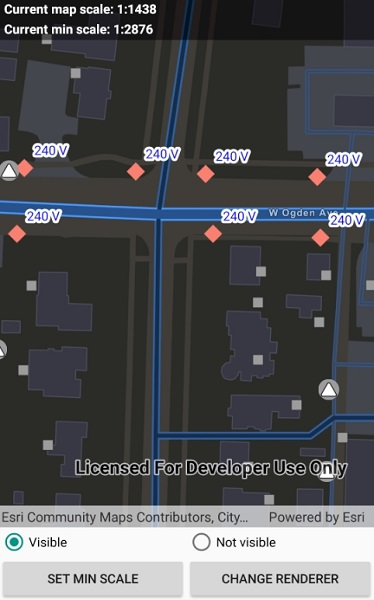
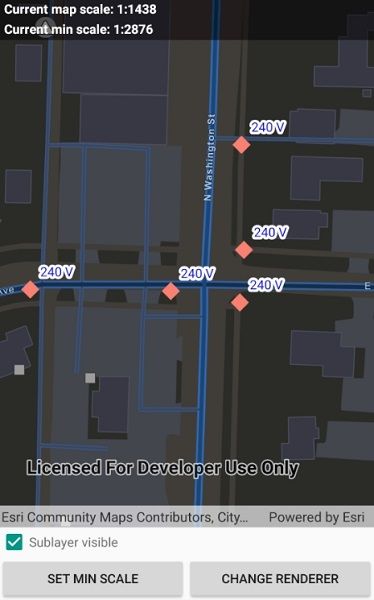
Switched android to use a checkbox for visibility

diff --git a/src/Android/Xamarin.Android/Samples/Layers/DisplaySubtypeFeatureLayer/DisplaySubtypeFeatureLayer.cs b/src/Android/Xamarin.Android/Samples/Layers/DisplaySubtypeFeatureLayer/DisplaySubtypeFeatureLayer.cs
@@ -32,8 +32,7 @@ namespace ArcGISRuntimeXamarin.Samples.DisplaySubtypeFeatureLayer
         private MapView _myMapView;
         private Button _minScaleButton;
         private Button _changeRendererButton;
-        private RadioButton _visibleButton;
-        private RadioButton _notVisibleButton;
+        private CheckBox _visibilityCheckbox;
         private TextView _mapScaleLabel;
         private TextView _sublayerScaleLabel;
 
@@ -145,18 +144,14 @@ namespace ArcGISRuntimeXamarin.Samples.DisplaySubtypeFeatureLayer
 
             _minScaleButton = FindViewById<Button>(Resource.Id.minScaleButton);
             _changeRendererButton = FindViewById<Button>(Resource.Id.rendererButton);
-
-            _visibleButton = FindViewById<RadioButton>(Resource.Id.visibleButton);
-            _notVisibleButton = FindViewById<RadioButton>(Resource.Id.notVisibleButton);
-
+            _visibilityCheckbox = FindViewById<CheckBox>(Resource.Id.visibilityCheckbox);
             _mapScaleLabel = FindViewById<TextView>(Resource.Id.mapScaleLabel);
             _sublayerScaleLabel = FindViewById<TextView>(Resource.Id.sublayerScaleLabel);
 
             // Add listeners for all of the buttons.
             _minScaleButton.Click += ChangeMinScale;
             _changeRendererButton.Click += ChangeRenderer;
-            _visibleButton.Click += (s, e) => { if (_sublayer != null) _sublayer.IsVisible = true; };
-            _notVisibleButton.Click += (s, e) => { if (_sublayer != null) _sublayer.IsVisible = false; };
+            _visibilityCheckbox.CheckedChange += (s, e) => { if (_sublayer != null) _sublayer.IsVisible = _visibilityCheckbox.Checked; };
         }
     }
 }
